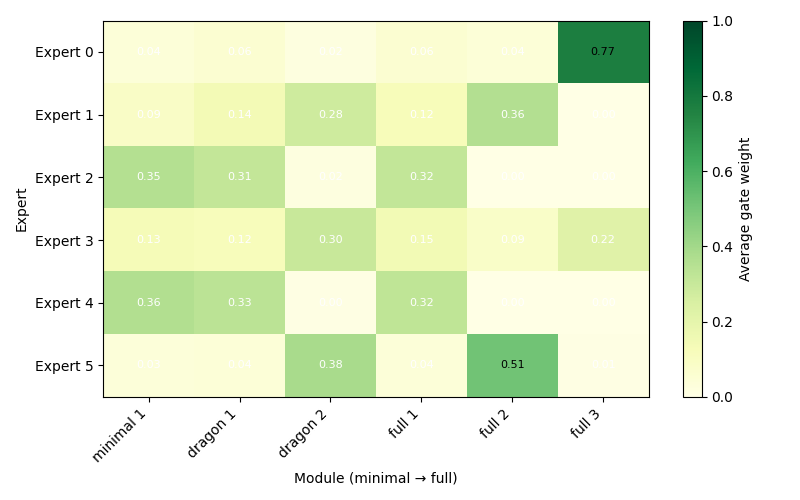
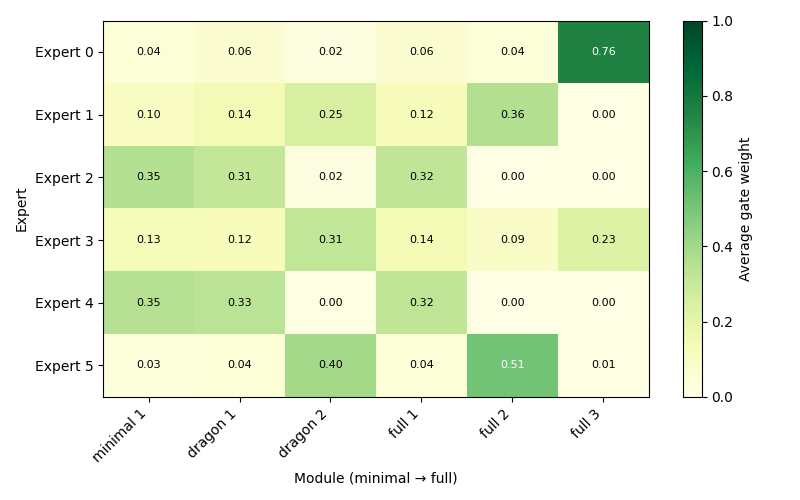
Upload image.

diff --git a/M2oE/scripts/play_gate_heatmap.py b/M2oE/scripts/play_gate_heatmap.py
@@ -202,7 +202,7 @@ def main():
     ax.set_yticks(np.arange(num_experts), labels=[f"Expert {i}" for i in range(num_experts)])
     for i in range(num_experts):
         for j in range(gate_matrix.shape[1]):
-            text_color = "black" if gate_matrix[i, j] > 0.5 else "white"
+            text_color = "black" if gate_matrix[i, j] < 0.5 else "white"
             ax.text(j, i, f"{gate_matrix[i, j]:.2f}", ha="center", va="center", color=text_color, fontsize=8)
 
     ax.set_xlabel("Module (minimal \u2192 full)")
